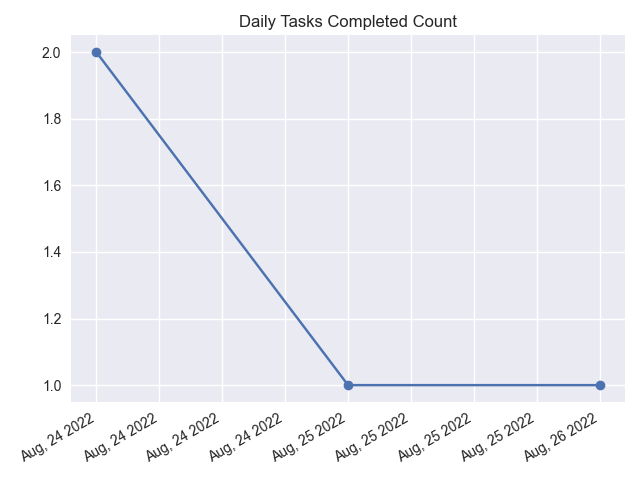
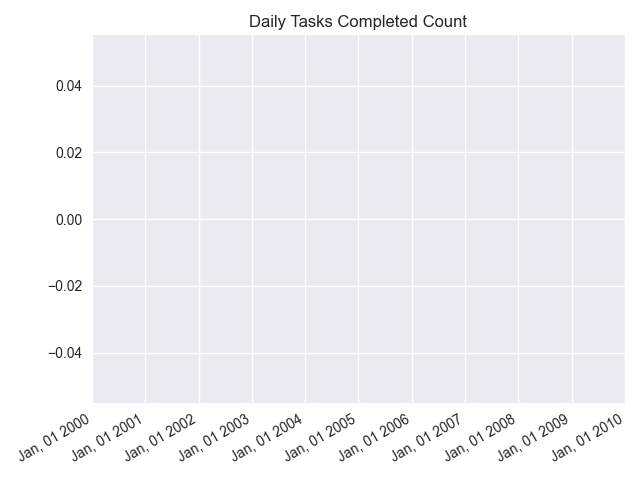
handle errors in summary page

diff --git a/application/controllers.py b/application/controllers.py
@@ -1,6 +1,3 @@
-import email
-from os import stat
-from turtle import title
 from application import app,db,bcrypt
 from flask import render_template, url_for
 from flask import request,flash, redirect
@@ -8,13 +5,15 @@ from application.forms import RegistrationForm,LoginForm,CreateList,CreateCard,M
 from application.models import User,List,Card
 from flask_login import login_user,logout_user,login_required,current_user
 from datetime import datetime
-import matplotlib
+import matplotlib,os
 matplotlib.use('Agg')
 from matplotlib import pyplot as plt
 from matplotlib import dates as dt
 # @app.before_first_request
 # def init_app():
 #     logout_user()
+
+basedir = os.path.abspath(os.path.dirname(__file__))
 
 @app.route("/")
 @login_required 
@@ -31,23 +30,29 @@ def plot_graph(dates,count):
     plt.gca().xaxis.set_major_formatter(date_format)
     plt.title('Daily Tasks Completed Count')
     plt.tight_layout()
-    plt.savefig('/Users/viraj/Github/KanbanApp/static/images/summary_plot.png')
+    # os.path.join(basedir,"static/images/summary_completed.png")
+    plt.savefig(os.path.join(basedir,"../static/images/summary_plot.png"))
+    plt.close()
 
 def plot_piechart_completed(slices,labels):
-    colors = ['#6E6B6B','#4C628A'] # use hex values
-    plt.pie(slices,labels=labels,colors=colors,autopct=lambda p: '{:.0f}%'.format(p))  
+    colors = ['#6E6B6B','#4C628A','#684080'] # use hex values
+    plt.pie(slices,labels=labels,colors=colors)  
+    # ,autopct=lambda p: '{:.0f}%'.format(p)
     plt.title('Completed Cards Summary')
     plt.legend(loc='best')
     plt.tight_layout()
-    plt.savefig('/Users/viraj/Github/KanbanApp/static/images/summary_completed.png')
+    plt.savefig(os.path.join(basedir,"../static/images/summary_completed.png"))
+    plt.close()
     
 def plot_piechart_completed_uncompleted(slices,labels):
     colors = ['#6E6B6B','#4C628A','#684080'] # use hex values
-    plt.pie(slices,labels=labels,colors=colors,autopct=lambda p: '{:.0f}%'.format(p))
+    plt.pie(slices,labels=labels,colors=colors)
+    # ,autopct=lambda p: '{:.0f}%'.format(p)
     plt.title('Completed vs Uncompleted Cards Summary')
     plt.legend(loc='best')
     plt.tight_layout()
-    plt.savefig('/Users/viraj/Github/KanbanApp/static/images/summary_completed_uncompleted.png')
+    plt.savefig(os.path.join(basedir,"../static/images/summary_completed_uncompleted.png"))
+    plt.close()
     
 
 
@@ -89,23 +94,30 @@ def summary():
             dates.append(date)
             count.append(1)
     # Plot graph Date completed count - save image
-    
-    plt.figure(0)
-    plt.clf()
-    plot_graph(dates,count)
+    cards = [card for card in list.cards for list in current_user.lists]
+    if cards:
+        plt.figure(0)
+        plt.clf()
+        plot_graph(dates,count)
 
-    plt.figure(1)
-    plt.clf()
-    # Pie chart for completed/uncompleted count - save image
-    slices1 = [completed_count,uncompleted_deadline_cross_count,uncompleted_deadline_not_cross_count]
-    lables1 = ['Completed Tasks','Uncompleted Tasks that crossed deadline','Uncompleted Tasks with deadline pending']
-    plot_piechart_completed_uncompleted(slices1,lables1)
-    plt.figure(2)
-    plt.clf()
-    # Pie chart for completed count - save image
-    slices2 = [completed_before_deadline_count,completed_after_deadline_count]
-    lables2 = ['Cards completed before deadline','Cards completed after deadline']
-    plot_piechart_completed(slices2,lables2)
+        plt.figure(1)
+        plt.clf()
+        # Pie chart for completed/uncompleted count - save image
+        slices1 = [completed_count,uncompleted_deadline_cross_count,uncompleted_deadline_not_cross_count]
+        print(slices1)
+        lables1 = ['Completed cards','Uncompleted cards that crossed deadline','Uncompleted cards with deadline pending']
+        plot_piechart_completed_uncompleted(slices1,lables1)
+        plt.figure(2)
+        plt.clf()
+        # Pie chart for completed count - save image
+        slices2 = [completed_before_deadline_count,completed_after_deadline_count,uncompleted_count]
+        print(slices2)
+        lables2 = ['Cards completed before deadline','Cards completed after deadline','Uncompleted cards']
+        plot_piechart_completed(slices2,lables2)
+    else:
+        flash(f"You don't have any cards to show summary",'warning')
+        return redirect(url_for('board'))
+
     return render_template("summary.html",user=current_user)
 
 @app.route("/register", methods=["GET","POST"])

diff --git a/application/forms.py b/application/forms.py
@@ -1,10 +1,4 @@
-from ast import Pass
-from sqlite3 import Date
-from xml.dom import ValidationErr
-from xmlrpc.client import Boolean
 from flask_wtf import FlaskForm
-from sqlalchemy import false
-from application import app
 from wtforms import StringField,PasswordField,SubmitField,SelectField,TextAreaField,DateField,RadioField
 from wtforms.validators import DataRequired,Length,Email,EqualTo,ValidationError
 from wtforms.widgets.html5 import DateInput

diff --git a/application/models.py b/application/models.py
@@ -1,7 +1,4 @@
-from enum import unique
-from tkinter import CASCADE
 from flask_login import UserMixin
-from sqlalchemy import ForeignKey
 from application import login_manager
 from datetime import datetime
 from application.database import db

diff --git a/test.py b/test.py
@@ -1,0 +1,5 @@
+import os
+
+basedir = os.path.abspath(os.path.dirname(__file__))
+
+print(basedir)
